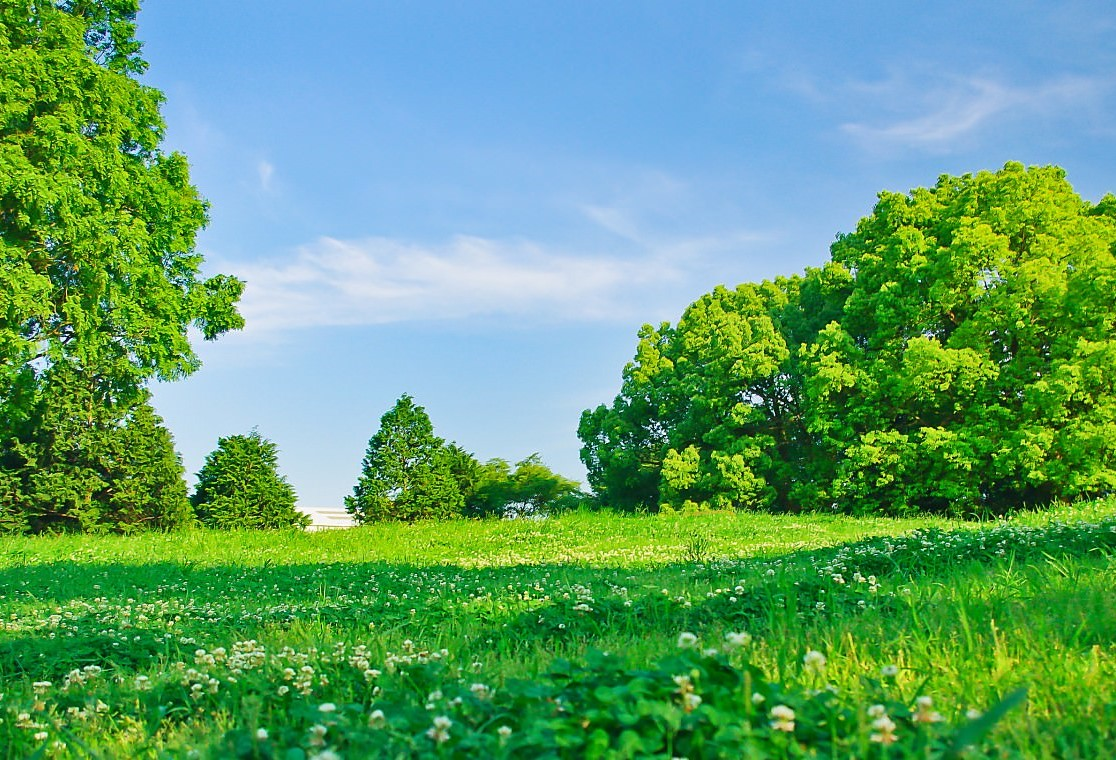
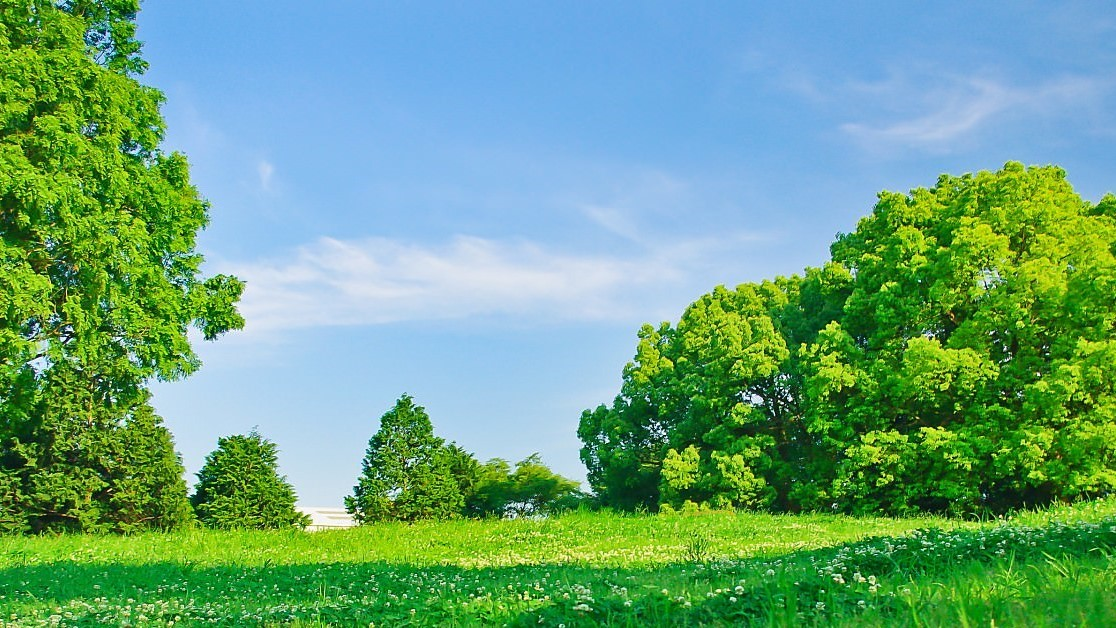
10/3昼　永井

diff --git a/src/main/webapp/css/mainpage.css b/src/main/webapp/css/mainpage.css
@@ -2,11 +2,16 @@
 .image{
 	background-image: url(../images/mori.jpg);
 	background-repeat: no-repeat;
+	background-size: cover;
 	margin: 0;
     padding: 0;
-   	background-size: 130% ;
+    display: flex;
+    flex-direction: column;
+    align-items: center;
+    text-align: center;
+    width: 100% auto ;
+    height: cover;
    	font-family: 'Noto Serif JP', serif;
-   	background-position:50% 0%;
    	background-attachment: fixed;
 }
 .en{
@@ -41,16 +46,16 @@ footer{
 }
 
 a{
-  padding: 0 10px;
-  background-image: linear-gradient(to right, rgba(0, 0, 0, 0) 50%, rgb(49, 170, 226) 50%);
-  background-position: 0 0;
-  background-size: 200% auto;
-  transition: .3s;
+  	padding: 0 10px;
+  	background-image: linear-gradient(to right, rgba(0, 0, 0, 0) 50%, rgb(49, 170, 226) 50%);
+  	background-position: 0 0;
+  	background-size: 200% auto;
+  	transition: .3s;
 }
 
 a:hover{
-  background-position: -100% 0;
-  color: #fff;
+  	background-position: -100% 0;
+  	color: #fff;
 }
 @media(max-width:767px){
 	.image {
@@ -58,11 +63,11 @@ a:hover{
 	   	text-align:center
 	}
 	.en{
-  	font-size: 60px;
-}
-.topnav{
+  		font-size: 60px;
+	}
+	.topnav{
 	    flex-direction: column;
-}
+	}
 	.topnav ul {
 		flex-wrap: wrap;
 		padding: 0.4px;
@@ -71,4 +76,6 @@ a:hover{
 	.topmenu{
 			font-size: 20px;
 			}
-	ol{padding:10px
+	ol{
+	padding:10px
+	}

diff --git a/src/main/webapp/css/Schedul.css b/src/main/webapp/css/Schedul.css
@@ -1,33 +1,33 @@
+@charset "UTF-8";
+
+
 .WelcomeMessage {
-    transform: translateX(43%);
+    transform: translateX(40%);
     font-size: 150%;
+   	margin: 0;
+    padding: 20px;
     font-family: "Yu Mincho", "Hiragino Mincho Pro", serif;
     font-weight: bold; /* 太字に設定 */
     color: rgb(0, 128, 0); /* 明るめの緑色のRGB値 */
 }
 
-
-body{
-	background-repeat: no-repeat;
-	
-	
-  background-image: url(../images/haikei2.png);
+.image{
+	background-image: url(../images/haikei2.png);
     background-repeat: repeat;
-   background-size: 100% auto;
-   padding:50px ;
-   }
-
-   
-
-    
+    background-size: cover;
+	margin: 0;
+    padding: 0;
+    height: 100% auto;
+    background-attachment: fixed;
+}
     
         table{
-  transform: translateX(12%);
+  transform: translateX(10%);
 }
 
 
 .monthNext{
-	transform: translateX(45%);
+	transform: translateX(42%);
 	 font-weight: bold; 
 	 font-size:30px;
 }
@@ -40,3 +40,21 @@ body{
 	  background-color: rgba(0, 0, 255, 0.5);
 
 }
+
+@media(max-width:767px){
+	.WelcomeMessage {
+		transform: translateX(0%);
+		font-size:15px;
+		align-items: center;
+    	text-align: center;
+	}
+	.monthNext {
+	    transform: translateX(0%);
+		font-size:15px;
+		align-items: center;
+    	text-align: center;
+	}
+	.sche{
+		font-size:5px;
+		}
+	}

diff --git a/src/main/webapp/css/schedule2.css b/src/main/webapp/css/schedule2.css
@@ -1,0 +1,19 @@
+@charset "UTF-8";
+
+@media(max-width:767px){
+	.WelcomeMessage {
+		transform: translateX(0%);
+		font-size:15px;
+		align-items: center;
+    	text-align: center;
+	}
+	.monthNext {
+	    transform: translateX(0%);
+		font-size:15px;
+		align-items: center;
+    	text-align: center;
+	}
+	.p{
+		font-size:7px;
+		}
+	}

diff --git a/src/main/webapp/css/detail.css b/src/main/webapp/css/detail.css
@@ -2,7 +2,7 @@
 .image{
     background-image: url(../images/haru.jpg);
     background-repeat: no-repeat;
-   	background-size: 100% auto;  
+   	background-size: cover;  
  	margin: 0;
     padding: 0;
     display: flex;

diff --git a/src/main/webapp/css/editmeibo.css b/src/main/webapp/css/editmeibo.css
@@ -3,7 +3,7 @@
 .image{
  	background-image: url(../images/haru.jpg);
     background-repeat: no-repeat;
-   	background-size: 100% auto;
+   	background-size: cover;
  	margin: 0;
     padding: 0;
     display: flex;

diff --git a/src/main/webapp/css/editshinamono.css b/src/main/webapp/css/editshinamono.css
@@ -2,7 +2,7 @@
 .image{
  	background-image: url(../images/haru.jpg);
     background-repeat: no-repeat;
-   	background-size: 100% auto;
+   	background-size: cover;
  	margin: 0;
     padding: 0;
     display: flex;

diff --git a/src/main/webapp/css/meiboentry.css b/src/main/webapp/css/meiboentry.css
@@ -54,3 +54,7 @@ textarea{
     height     : 180px; 
     object-fit: contain;
 }
+
+@media(max-width:767px){
+
+}

diff --git a/src/main/java/schedule/MonthView.java b/src/main/java/schedule/MonthView.java
@@ -107,7 +107,7 @@ public class MonthView extends HttpServlet {
 		sb.append("<!DOCTYPE html PUBLIC \"-//W3C//DTD HTML 4.0.1//EN\" \"http://www.w3.org/TR/html4/strict.dtd\">");
 
 		sb.append("<html lang=\"ja\">");
-		sb.append("<head>");
+		sb.append("<head><meta name=\"viewport\" content=\"width=device-width, initial-scale=1.0\">");
 		sb.append("<meta http-equiv=\"Content-Type\" Content=\"text/html;charset=UTF-8\">");
 		sb.append("<link rel=\"stylesheet\" href=\"css/Schedul.css\">");
 		sb.append("<link rel=\"stylesheet\" href=\"css/main.css\">");
@@ -147,8 +147,8 @@ public class MonthView extends HttpServlet {
 				+ "				</ul>\r\n"
 				+ "			</nav>\r\n"
 				+ "		</div>\r\n"
-				+ "	</header>");		sb.append("<main><p class=WelcomeMessage>");
-	
+				+ "	</header>");		
+		sb.append("<div class=\"image\"><main><p class=WelcomeMessage>");
 		sb.append(username);
 		sb.append("さんのスケジュール帳");
 		sb.append("</p>");
@@ -189,7 +189,7 @@ public class MonthView extends HttpServlet {
 
 		sb.append("</table>");
 
-		sb.append("</body>");
+		sb.append("</div></body>");
 		sb.append("</html>");
 
 		out.println(new String(sb));
@@ -330,17 +330,14 @@ public class MonthView extends HttpServlet {
 		/* 今月が何曜日から開始されているか確認する */
 		calendar.set(year, month, 1);
 		int startWeek = calendar.get(Calendar.DAY_OF_WEEK);
-		System.out.println("今月の曜日は" + startWeek + "から");
 
 		/* 先月が何日までだったかを確認する */
 		calendar.set(year, month, 0);
 		int beforeMonthlastDay = calendar.get(Calendar.DATE);
-		System.out.println("先月は" + beforeMonthlastDay + "日まで");
 
 		/* 今月が何日までかを確認する */
 		calendar.set(year, month + 1, 0);
 		int thisMonthlastDay = calendar.get(Calendar.DATE);
-		System.out.println("今月は" + thisMonthlastDay + "日まで\r\n");
 
 		/* 先月分の日付を格納する */
 		for (int i = startWeek - 2; i >= 0; i--) {

diff --git a/src/main/java/schedule/EditSchedule.java b/src/main/java/schedule/EditSchedule.java
@@ -126,7 +126,7 @@ public class EditSchedule extends HttpServlet {
         sb.append("<!DOCTYPE html PUBLIC \"-//W3C//DTD HTML 4.0.1//EN\" \"http://www.w3.org/TR/html4/strict.dtd\">");
 
         sb.append("<html lang=\"ja\">");
-        sb.append("<head>");
+		sb.append("<head><meta name=\"viewport\" content=\"width=device-width, initial-scale=1.0\">");
         sb.append("<meta http-equiv=\"Content-Type\" Content=\"text/html;charset=UTF-8\">");
 
         sb.append("<title>スケジュール変更</title>");
@@ -152,6 +152,9 @@ public class EditSchedule extends HttpServlet {
         sb.append("#contents:after{content:\".\";display:block;height:0;clear:both;visibility:hidden;}");
         sb.append("</style>");
 		sb.append("<link rel=\"stylesheet\" href=\"css/main.css\">");
+		sb.append("<link rel=\"stylesheet\" href=\"css/schedule2.css\">");
+
+
 
 
         sb.append("</head>");
@@ -173,7 +176,7 @@ public class EditSchedule extends HttpServlet {
 				+ "		</div>\r\n"
 				+ "	</header>");
 
-        sb.append("<main><p>");
+        sb.append("<div class=\"image\"><main><p>");
         sb.append(username);
         sb.append("さんのスケジュールです");
         sb.append("</p>");
@@ -573,7 +576,7 @@ sb.append("<input type=\"submit\" name=\"Register\" value=\"変更する\">");
         sb.append("</div>");
         sb.append("</div>");
 
-        sb.append("</main></body>");
+        sb.append("</main></div></body>");
         sb.append("</html>");
 
         out.println(new String(sb));

diff --git a/src/main/java/schedule/NewSchedule.java b/src/main/java/schedule/NewSchedule.java
@@ -106,7 +106,7 @@ import model.UserInfoDto;
         sb.append("<!DOCTYPE html PUBLIC \"-//W3C//DTD HTML 4.0.1//EN\" \"http://www.w3.org/TR/html4/strict.dtd\">");
 
         sb.append("<html lang=\"ja\">");
-        sb.append("<head>");
+		sb.append("<head><meta name=\"viewport\" content=\"width=device-width, initial-scale=1.0\">");
         sb.append("<meta http-equiv=\"Content-Type\" Content=\"text/html;charset=UTF-8\">");
 
         sb.append("<title>スケジュール登録</title>");
@@ -129,6 +129,9 @@ import model.UserInfoDto;
         sb.append("#contents:after{content:\".\";display:block;height:0;clear:both;visibility:hidden;}");
         sb.append("</style>");
 		sb.append("<link rel=\"stylesheet\" href=\"css/main.css\">");
+		sb.append("<link rel=\"stylesheet\" href=\"css/schedule2.css\">");
+
+
 
 
         sb.append("</head>");
@@ -148,7 +151,7 @@ import model.UserInfoDto;
 				+ "				</ul>\r\n"
 				+ "			</nav>\r\n"
 				+ "		</div>\r\n"
-				+ "	</header>");        sb.append("<main><p>");
+				+ "	</header>");        sb.append("<div class=\"image\"><main><p>");
         sb.append(username);
         sb.append("さんのスケジュールです");
         sb.append("</p>");
@@ -431,7 +434,7 @@ import model.UserInfoDto;
         sb.append("</div>");
         sb.append("</div>");
 
-        sb.append("</main></body>");
+        sb.append("</main></div></body>");
         sb.append("</html>");
 
         out.println(new String(sb));

diff --git a/src/main/java/schedule/ScheduleView.java b/src/main/java/schedule/ScheduleView.java
@@ -117,7 +117,7 @@ import model.UserInfoDto;
         sb.append("<!DOCTYPE html PUBLIC \"-//W3C//DTD HTML 4.0.1//EN\" \"http://www.w3.org/TR/html4/strict.dtd\">");
 
         sb.append("<html lang=\"ja\">");
-        sb.append("<head>");
+		sb.append("<head><meta name=\"viewport\" content=\"width=device-width, initial-scale=1.0\">");
         sb.append("<meta http-equiv=\"Content-Type\" Content=\"text/html;charset=UTF-8\">");
 
         sb.append("<title>スケジュール登録</title>");
@@ -143,6 +143,8 @@ import model.UserInfoDto;
         sb.append("#contents:after{content:\".\";display:block;height:0;clear:both;visibility:hidden;}");
         sb.append("</style>");
 		sb.append("<link rel=\"stylesheet\" href=\"css/main.css\">");
+		sb.append("<link rel=\"stylesheet\" href=\"css/schedule2.css\">");
+
 
 
         sb.append("</head>");
@@ -164,7 +166,7 @@ import model.UserInfoDto;
 				+ "		</div>\r\n"
 				+ "	</header>");
 
-        sb.append("<main><p>");
+        sb.append("<div class=\"image\"><main><p>");
         sb.append(username);
         sb.append("さんのスケジュールです");
         sb.append("</p>");
@@ -362,7 +364,7 @@ import model.UserInfoDto;
 
         sb.append("</div>");
         sb.append("</div>");
-        sb.append("</main></body>");
+        sb.append("</main></div></body>");
         sb.append("</html>");
 
         out.println(new String(sb));

diff --git a/src/main/java/schedule/DeleteCheck.java b/src/main/java/schedule/DeleteCheck.java
@@ -122,7 +122,7 @@ import model.UserInfoDto;
         sb.append("<!DOCTYPE html PUBLIC \"-//W3C//DTD HTML 4.0.1//EN\" \"http://www.w3.org/TR/html4/strict.dtd\">");
 
         sb.append("<html lang=\"ja\">");
-        sb.append("<head>");
+		sb.append("<head><meta name=\"viewport\" content=\"width=device-width, initial-scale=1.0\">");
         sb.append("<meta http-equiv=\"Content-Type\" Content=\"text/html;charset=UTF-8\">");
 
         sb.append("<title>スケジュール削除</title>");
@@ -143,6 +143,8 @@ import model.UserInfoDto;
         sb.append("p{font-size:0.75em;}");
         sb.append("</style>");
 		sb.append("<link rel=\"stylesheet\" href=\"css/main.css\">");
+		sb.append("<link rel=\"stylesheet\" href=\"css/schedule2.css\">");
+
 
 
         sb.append("</head>");
@@ -165,7 +167,7 @@ import model.UserInfoDto;
 				+ "	</header>");
 
 
-        sb.append("<main><p>");
+        sb.append("<div class=\"image\"><main><p>");
         sb.append(username);
         sb.append("さんのスケジュールです");
         sb.append("</p>");
@@ -318,7 +320,7 @@ import model.UserInfoDto;
         sb.append("\">キャンセル</a>]");
         sb.append("</p>");
 
-        sb.append("</main></body>");
+        sb.append("</main></div></body>");
         sb.append("</html>");
 
         out.println(new String(sb));
